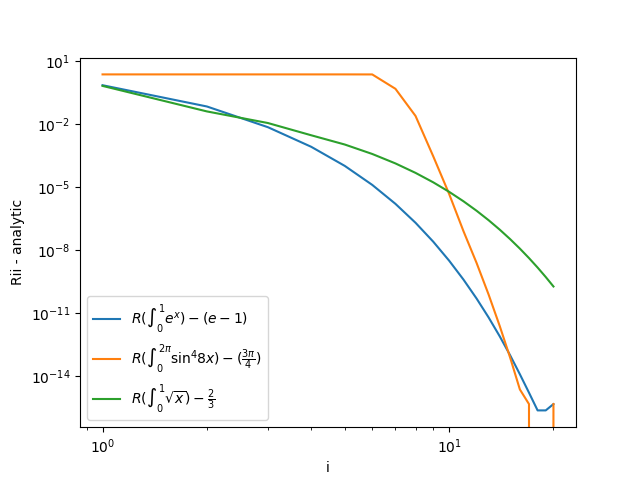
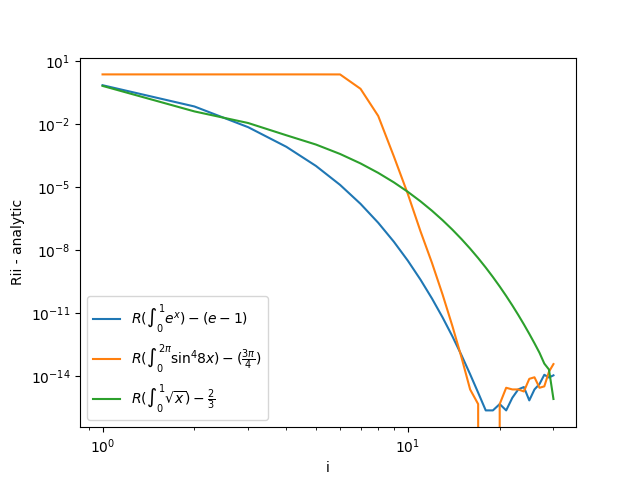
minor style stanges and new diagrams - exercie1 finished

diff --git a/exercise1/simpson.py b/exercise1/simpson.py
@@ -14,7 +14,7 @@ def simpson(a, b, N, func):
 
     """
     x, h = np.linspace(a, b, N, retstep=True)
-    function_values = func(x) # generate an array of function values
+    function_values = func(x)  # generate an array of function values
     integral = simpson_rule(h, function_values)
     return integral, h
 
@@ -31,7 +31,9 @@ def simpson_rule(h, function_values):
             * (5 * function_values[-1] + 8 * function_values[-2] - function_values[-3])
             / 12
         )
-        rest = simpson_rule(h, function_values[:-1:])  # recursive calculation of the rest of the array
+        rest = simpson_rule(
+            h, function_values[:-1:]
+        )  # recursive calculation of the rest of the array
         return first_term + rest
     else:
         # odd length
@@ -40,7 +42,9 @@ def simpson_rule(h, function_values):
             * (
                 function_values[0]
                 + function_values[-1]
-                + np.sum(4 * function_values[1:-1:2]) # formula from the script with some fancy numpy indexing
+                + np.sum(
+                    4 * function_values[1:-1:2]
+                )  # formula from the script with some fancy numpy indexing
                 + np.sum(2 * function_values[2:-2:2])
             )
             / 3
@@ -57,7 +61,9 @@ def is_even(array):
         return False
 
 
-def theoretical_error(a, b, h, f): # formula from the script, we assumed zeta to produce the maximal value.
+def theoretical_error(
+    a, b, h, f
+):  # formula from the script, we assumed zeta to produce the maximal value.
     return (h ** 4) * f * (b - a) / 180
 
 
@@ -72,11 +78,11 @@ analytic = 1
 
 h_range = 10000
 for i in range(3, h_range):
-    simp_result, h = simpson(a, b, 5 * i, function) # iterate over different slicings
+    simp_result, h = simpson(a, b, 5 * i, function)  # iterate over different slicings
     e = theoretical_error(0, np.pi / 2, h, 1)
     data.append(np.abs(simp_result - analytic))
     hs.append(h)
-    es.append(e) # save data to arrays for plotting
+    es.append(e)  # save data to arrays for plotting
     if i % 1000 == 0:
         perc = i / h_range * 100
         print(f"{perc}%")
@@ -86,4 +92,4 @@ plt.loglog(hs, es, label="Theoretical Error")
 plt.legend()
 plt.xlabel("h")
 plt.ylabel("difference")
-plt.savefig("simpson_2.png")
+plt.savefig("simpson.png")

diff --git a/exercise1/romberg.py b/exercise1/romberg.py
@@ -13,7 +13,7 @@ def romberg(a, b, nmax, func):
     func: Function to integrate
     """
     R = np.zeros((nmax, nmax), float)
-    for n in range(0, nmax): # calculate terms iteratively
+    for n in range(0, nmax):  # calculate terms iteratively
         N = 2 ** n
         R[n, 0] = trapezoidal(a, b, N, func)
         for j in range(0, n):
@@ -26,7 +26,7 @@ def trapezoidal(a, b, N, func):
     trapezoidal area calculation.
     """
     x, h = np.linspace(a, b, N + 1, retstep=True)
-    function_values = func(x) # generate array of sampled function values
+    function_values = func(x)  # generate array of sampled function values
     if function_values[1:N].size > 0:
         s = np.sum(function_values[1:N])
     else:
@@ -51,7 +51,7 @@ analytic1 = np.exp(1) - 1
 analytic2 = 3 * np.pi / 4
 analytic3 = 2 / 3
 
-n = 20
+n = 30
 
 result_1, R1 = romberg(0, 1, n, f1)
 result_2, R2 = romberg(0, 2 * np.pi, n, f2)
